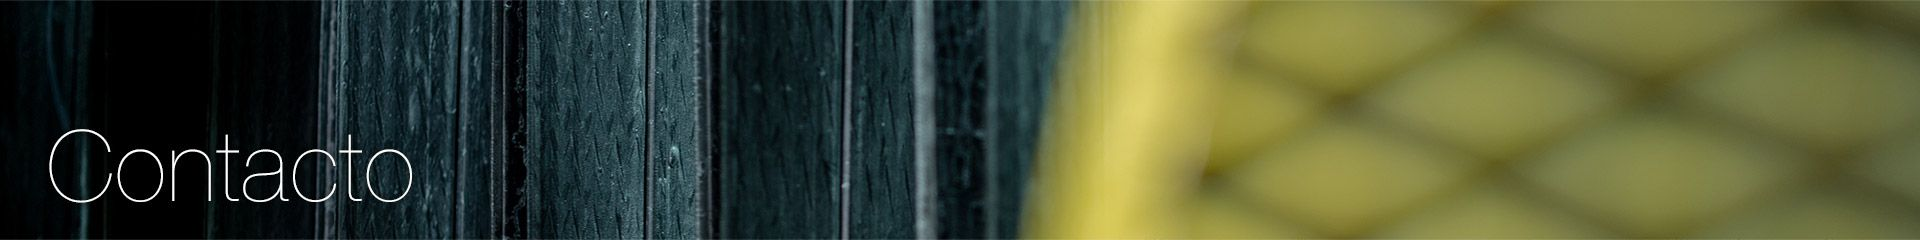
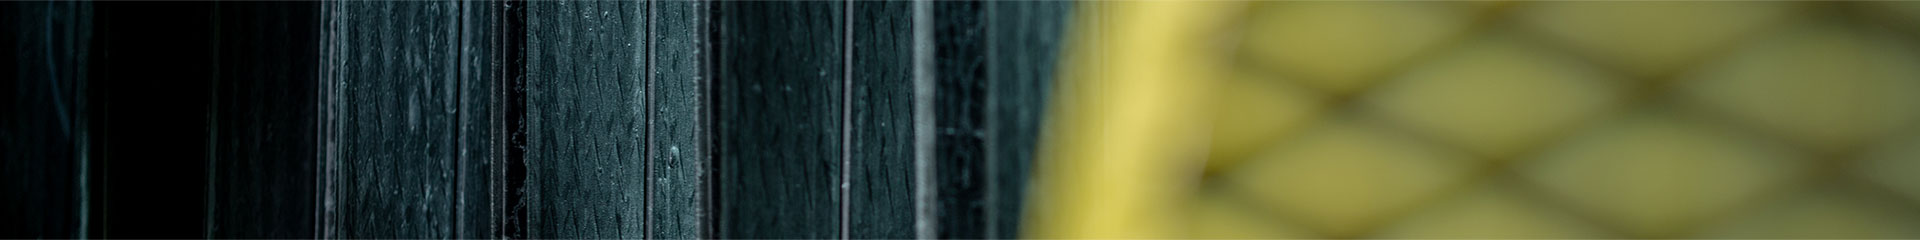
update contacto

Changed region(s): [[0.0312, 0.6125, 0.2188, 0.8458], [0.0312, 0.525, 0.0625, 0.5833]]

diff --git a/app/scripts/main.js b/app/scripts/main.js
@@ -11,11 +11,45 @@ function calcutaleHeight(element) {
 // Loader
 function loader() {
 	'use strict';
-	$("#preloader").delay(900).fadeOut("slow");
-	$("body").delay(900).css({overflow:"visible"})
+	$('#preloader').delay(900).fadeOut('slow');
+	$('body').delay(900).css({overflow:'visible'});
+}
+
+// Google maps api.
+function initialize() {
+	'use strict';
+
+	var myLatlng = new google.maps.LatLng(-34.554056, -58.527123);
+	var mapOptions = {
+	zoom: 4,
+	center: myLatlng
+	};
+
+	var map = new google.maps.Map(document.getElementById('map-canvas'), mapOptions);
+
+	var contentString = '<div id="content">'+
+	  '<div id="siteNotice">'+
+	  '</div>'+
+	  '<h1 id="firstHeading" class="firstHeading">Uluru</h1>'+
+	  '</div>'+
+	  '</div>';
+
+	var infowindow = new google.maps.InfoWindow({
+	  content: contentString
+	});
+
+	var marker = new google.maps.Marker({
+	  position: myLatlng,
+	  map: map,
+	  title: 'ISISA Insumos y Servicios Industriales'
+	});
+	google.maps.event.addListener(marker, 'click', function() {
+	infowindow.open(map,marker);
+	});
 }
 
 $(window).load(function() {
+	'use strict';
 	loader();
 	aload();
 	calcutaleHeight('section', '.bx-viewport');
@@ -23,15 +57,19 @@ $(window).load(function() {
 
 $(document).ready(function() {
 	'use strict';
+
+	// Google Maps Api.
+	initialize();
+
 	// resize
 	$(window).resize(function() {
-		calcutaleHeight('section');
+		calcutaleHeight('section', '.bx-viewport');
 	});
 	// videos 
 	$('#content_video').fitVids();
 
 	$('a[href*=#]:not([href=#])').click(function() {
-	    if (location.pathname.replace(/^\//,'') == this.pathname.replace(/^\//,'') && location.hostname == this.hostname) {
+	    if (location.pathname.replace(/^\//,'') === this.pathname.replace(/^\//,'') && location.hostname === this.hostname) {
 	      var target = $(this.hash);
 	      target = target.length ? target : $('[name=' + this.hash.slice(1) +']');
 	      if (target.length) {

diff --git a/app/index.html b/app/index.html
@@ -3,7 +3,7 @@
   <head>
     <meta charset="utf-8">
     <meta name="description" content="">
-    <meta name="viewport" content="width=device-width, initial-scale=1">
+    <meta name="viewport" content="width=device-width, initial-scale=1, user-scalable=no">
     <title>ISISA</title>
     <!-- Place favicon.ico and apple-touch-icon.png in the root directory -->
 
@@ -397,11 +397,10 @@
       </section>
       
       <div id="partners">
-        
         <div class="title-separator">
           <h3>PARTNERS</h3>
           <hr>
-        </div>
+        </div><!-- title-separator -->
 
         <ul class="partners-list">
           <li><img src="images/partners/partner-1.png" alt="Dow"></li>
@@ -411,12 +410,21 @@
           <li><img src="images/partners/partner-5.png" alt="YPF"></li>
           <li><img src="images/partners/partner-6.png" alt="Maprim"></li>
           <li><img src="images/partners/partner-7.png" alt="Rhodia"></li>
-        </ul>
-
-      </div>
+        </ul><!-- partners-list -->
+      </div><!-- partners -->
       
-      <section data-aload id="contacto">
-        contacto
+      <section id="contacto">
+        <div data-aload class="header_contact">
+          <h3>Contacto</h3>
+        </div>
+
+        <div class="contact_map">
+          <div id="map-canvas"></div>
+        </div>
+
+        <div class="contact_form_content">
+          lallala
+        </div>
       </section>
     
     </article>
@@ -434,6 +442,9 @@
       r.parentNode.insertBefore(e,r)}(window,document,'script','ga'));
       ga('create','UA-XXXXX-X');ga('send','pageview');
     </script>
+    
+    <!-- Google Maps -->
+    <script src="https://maps.googleapis.com/maps/api/js?v=3.exp"></script>
 
     <!-- build:js scripts/vendor.js -->
     <!-- bower:js -->

diff --git a/app/styles/main.scss b/app/styles/main.scss
@@ -83,7 +83,7 @@ section {
   }
 
   &#contacto {
-    @include background-fixed('../images/mezclas/bg-mezclas.jpg', 50%, 50%); 
+    background-color: $black;
   }
 }
 // Home / Intro
@@ -364,8 +364,43 @@ iframe {
       max-width: 100%;
       height: auto;
       display: block;
+      margin: 0 auto;
     }
 
   }
 }
 
+// Contacto
+#contacto {
+  
+  .header_contact {
+    @include size(100%, 20%);
+    background: url(../images/contacto/contacto.jpg) 0 0 no-repeat;
+    background-size: cover;
+    position: relative;
+
+    h3 {
+      font-family: $Helvetica_ULC;
+      font-size: $title-size;
+      @include text-shadow(1px 1px 1px, $black-50);
+      @include position(absolute, auto, 5%, 5%, auto);
+    }
+  }
+  .contact_map {
+    @include size(100%, 30%);
+    overflow: hidden;
+    position: relative;
+  }
+  .contact_form_content {
+    @include size(100%, 50%);
+    background: url(../images/contacto/form-bck.jpg) 0 0 no-repeat;
+    background-size: cover;
+  }
+
+  #map-canvas {
+    @include size(100%, 100%);
+    padding: 0;
+    margin: 0;
+  }
+
+}

diff --git a/gulpfile.js b/gulpfile.js
@@ -116,8 +116,8 @@ gulp.task('wiredep', function () {
     }))
     .pipe(gulp.dest('app'));
 });
-
-gulp.task('build', ['jshint', 'html', 'images', 'fonts', 'extras'], function () {
+//'jshint', 
+gulp.task('build', ['html', 'images', 'fonts', 'extras'], function () {
   return gulp.src('dist/**/*').pipe($.size({title: 'build', gzip: true}));
 });
 
